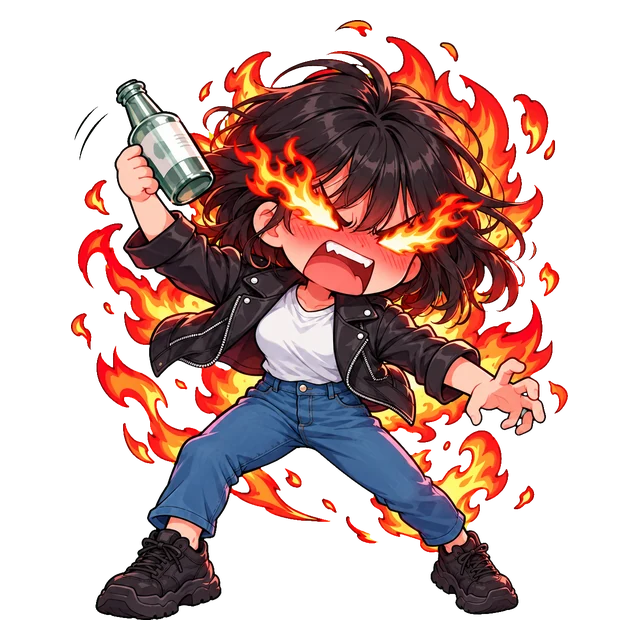
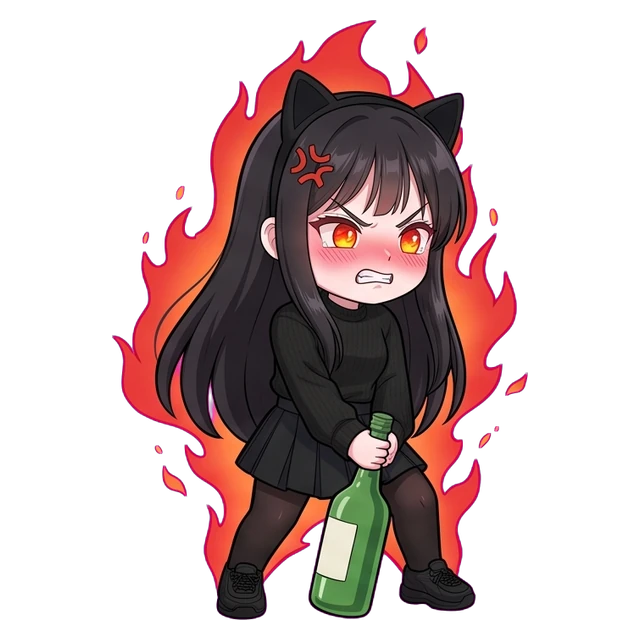
최은옥 술버릇 컨셉 새 그림: 평소 = 의자에 앉아 울면서 소주잔 던지기 · 분노 = 버럭 소주병 투척 (도감 HQ · 인게임 띠 · 소주잔/소주병 투사체 · 깨지는 연출) · ?v=20261014g
- 그림: h_eunok(_attack) 앉아 훌쩍 · h_eunok_rage(_attack) 서서 소주병 · dex/dexhq(+thumb, duo) · fx/w_cup 새 소주잔 · fx/w_sojubottle 새 소주병 (Gemini · 키 작게)
- 연출만: 분노 중 투사체 = 소주병 · 맞으면 유리 조각 (잔: 투명 · 병: 초록 와장창) · 시한폭탄 자리에 꽂힌 잔/병 그림 · 원샷(분노 시작) 때 큰 소주병 휙 · 평소 훌쩍 들썩 + 눈물
- 글: 소개 · 도감 한 줄 · 대사 · 카드 요약 (피해 수치는 그대로)
- ART_VER 3 · 얼굴 위치(DEX_FACE · FACE_BOX) 새 그림에 맞춤

Claude-Session: https://claude.ai/code/session_016zscpnQTe5fAmJRC7J2Wse

diff --git a/public/langbang/game.js b/public/langbang/game.js
@@ -640,6 +640,11 @@ function handleEvents(g, loud) {
         break;
       case 'splash':
         fx.blast(e.x, e.y, e.r, e.proj === 'heart' ? 'heart' : e.proj === 'bottle' ? 'fire' : e.proj === 'swear' ? 'electric' : 'gold');
+        if (e.proj === 'bottle') { // 최은옥: 깨지는 소주잔(투명 유리) · 분노 땐 초록 소주병 와장창 + 튀는 술
+          fx.burst(e.x, e.y - 4, e.rage ? 14 : 9, e.rage ? '#4fcf72' : '#e8f8ff', e.rage ? 230 : 170, 'shard', e.rage ? 6 : 4, 0.55, 420);
+          fx.burst(e.x, e.y - 4, e.rage ? 8 : 5, 'rgba(200,240,255,0.85)', 110, 'dot', 3, 0.5, 300);
+          if (Math.random() < (e.rage ? 0.4 : 0.15)) fx.text(e.x, e.y - 14, e.rage ? '와장창!!' : '쨍그랑', e.rage ? '#b6ffb0' : '#dff4ff', e.rage ? 15 : 12, 0.6);
+        }
         if (loud) A.sfx.explode();
         break;
       case 'bossHold': if (!busy) fx.text(e.x, e.y, '버틴다!', '#ffb36a', 13, 0.7); break;
@@ -1339,10 +1344,19 @@ function handleEvents(g, loud) {
         if (live) endRun(false);
         break;
       case 'rage':
-        fx.banner('최은옥 분노 모드!!', '"다 덤벼!!!"', '#c01010', 1.8, 'rage', 'h_eunok_rage');
+        fx.banner('최은옥 분노 모드!!', '"울 만큼 울었어!! 다 덤벼!!!"', '#c01010', 1.8, 'rage', 'h_eunok_rage');
         fx.addShake(8);
         fx.ring(e.x, e.y, 10, 160, 0.6, '#ff3b30', 8);
         for (let k = 0; k < 16; k++) fx.part('flame', e.x + (Math.random() - 0.5) * 40, e.y + 10, (Math.random() - 0.5) * 60, -80 - Math.random() * 80, 0.8, 14, null);
+        { // 울다가 버럭! 큰 소주병을 진상 쪽으로 휙 (그림 연출만 — 피해는 sim 이 정한다)
+          let tg = null;
+          for (const o of g.enemies || []) if (!o.dead && o.y > 0 && (!tg || o.y > tg.y)) tg = o;
+          if (tg) {
+            const tx = tg.x, ty = tg.y;
+            R.vfx('w_sojubottle', e.x, e.y - 34, { anim: 'fly', dur: 460, sz: 54, tx, ty, blend: 'source-over' });
+            setTimeout(() => { fx.burst(tx, ty - 4, 18, '#4fcf72', 260, 'shard', 7, 0.6, 420); fx.burst(tx, ty - 4, 10, 'rgba(200,240,255,0.85)', 140, 'dot', 3.4, 0.5, 300); fx.ring(tx, ty, 8, 90, 0.4, '#b6ffb0', 5); fx.text(tx, ty - 26, '와장창!!', '#b6ffb0', 18, 0.9); fx.addShake(6); }, 460);
+          }
+        }
         if (loud) A.sfx.rage();
         break;
       case 'sober': fx.text(e.x, e.y - 60, '술 깼다… 한 잔 더?', '#ffd6a8', 12, 1.3); break;
@@ -3360,7 +3374,7 @@ const sleep = (ms) => new Promise((r) => setTimeout(r, ms));
 const DEX_CATCH = {
   bangjang: '"공지! 오늘도 랑방은 내가 지킨다!"', staff: '"경고 한 번, 두 번… 세 번이면 아웃이에요."', gunman: '"건전하게, 정확하게."', gunnyeo: '"다친 사람 먼저! 다들 괜찮아요?"',
   myunghoon: '"#@!% … 아, 미안. 조용히 해 줄래?"', dohoon: '"앵콜! 앵콜! 마이크는 안 놔!"', ingyu: '"오 그거 근육 자극 좋다."', donghan: '"…이제 좀 해볼까?"', youngjun: '"들어간다. 따라오지 마."',
-  eunok: '"한 잔만… 딱 한 잔만 할게."', hanna: '"윙크 받을 준비 됐어?"', sunggu: '"요즘 것들은… 내가 보여 주마."', junseo: '"잠깐, 내 친구 소개해 줄게!"', hyungyeong: '"다이어트는 내일부터! 오늘은 박치기!"',
+  eunok: '"흐엉… 나 하나도 안 취했어… (휙)"', hanna: '"윙크 받을 준비 됐어?"', sunggu: '"요즘 것들은… 내가 보여 주마."', junseo: '"잠깐, 내 친구 소개해 줄게!"', hyungyeong: '"다이어트는 내일부터! 오늘은 박치기!"',
   ara: '"공주님 등장~ 아이고 허리야…"', hochan: '"랑방을 위하여!!"',
   soyoung: '"그러니까 내가 뭐랬어!"', jieun: '"…시간아 멈춰라."', sanghwa: '"좋은남자 박상화!"', jungmin: '"가만있어 봐, 붙여 줄게."',
   dragon: '"박나뇽, 내 말 좀 들어 봐~" (화르륵)', subin: '"음악 틀어 줘! 같이 춰요~"',
@@ -6093,7 +6107,7 @@ const DEX_FLAVOR = {
   ingyu: '3대 500 헬창. 진상이 뭘 던지든 "오 근육 자극 좋다"로 받아친다.',
   donghan: '모임 내내 소파에 누워 간만 보는 사람. 근데 "이제 좀 해볼까?" 하는 순간 한 줄이 사라진다. 커피 한 잔 원샷하면 눈이 번쩍 — 머리에서 김이 나고 하늘에서 캔커피가 쏟아진다.',
   youngjun: '크로스핏으로 단련한 몸에 검은 고양이 후드 — 어둠 속에서 진상들을 처리하는 전사. 뛰어든 동안엔 아무것도 안 통한다.',
-  eunok: '처음엔 얌전히 홀짝홀짝. 14초쯤 뒤엔… 소주병이 날아다니기 시작한다.',
+  eunok: '키는 작아도 술버릇은 크다. 의자에 앉아 훌쩍이며 소주잔을 휙휙 — "원샷!" 한 마디에 눈물 뚝, 소주병 투척 시작.',
   hanna: '랑방 공식 윙크 담당. 남자 진상은 윙크 한 방에 정신 못 차리고 날아간다.',
   sunggu: '"요즘 것들은…"이 입버릇인 최고참. 지팡이를 던지면 커다란 원을 그리며 한 무리를 두 번 훑고 손에 쏙 돌아온다.',
   dragon: '어느 날 찾아온 자기 닮은 용 박나뇽과 다니는 히든 멤버. 나영이 헛소리를 할 때마다 박나뇽이 "화르륵" — 진상들이 불붙은 채 뛰어다닌다.',
@@ -6161,10 +6175,10 @@ const DEX_FLAVOR = {
 };
 // 도감 카드 세로 영문 이름 · 얼굴 위치 (dexhq 전신 그림 기준: 가운데 x, y, 얼굴 폭 — 그림 폭 대비)
 const DEX_EN = { dragon: 'PARK NAYOUNG', subin: 'LIM SUBIN', baul: 'SONG BAUL', byunghwa: 'KANG BYUNGHWA', jeongseob: 'YOON JEONGSEOB', jiwon: 'YEO JIWON', wonsik: 'JUNG WONSIK', bangjang: 'BANGJANG', staff: 'STAFF', gunman: 'MR. CLEAN', gunnyeo: 'MS. CLEAN', myunghoon: 'SEO MYUNGHOON', dohoon: 'KIM DOHOON', ingyu: 'BAEK INGYU', donghan: 'MOON DONGHAN', youngjun: 'KIM YOUNGJUN', eunok: 'CHOI EUNOK', hanna: 'LEE HANNA', sunggu: 'KANG SUNGGU', junseo: 'YOON JUNSEO', hyungyeong: 'BAE HYUNGYEONG', ara: 'KO ARA', hochan: 'LEE HOCHAN', soyoung: 'JEONG SOYOUNG', jieun: 'OH JIEUN', sanghwa: 'PARK SANGHWA', jungmin: 'HONG JUNGMIN' };
-const DEX_FACE = { subin: [0.53, 0.115, 0.13], baul: [0.49, 0.085, 0.12], byunghwa: [0.42, 0.085, 0.11], jeongseob: [0.5, 0.1, 0.13], hochan: [0.49, 0.125, 0.17], bangjang: [0.45, 0.1, 0.15], staff: [0.47, 0.085, 0.13], gunnyeo: [0.47, 0.09, 0.13], eunok: [0.44, 0.078, 0.12], hanna: [0.47, 0.083, 0.13], sunggu: [0.49, 0.09, 0.14], gunman: [0.58, 0.085, 0.13], dohoon: [0.55, 0.09, 0.13], myunghoon: [0.56, 0.1, 0.15], youngjun: [0.49, 0.085, 0.13], donghan: [0.62, 0.11, 0.17], ingyu: [0.48, 0.1, 0.13], junseo: [0.55, 0.11, 0.14], ara: [0.37, 0.32, 0.12], hyungyeong: [0.55, 0.19, 0.2], jungmin: [0.44, 0.11, 0.12], soyoung: [0.47, 0.11, 0.13], jieun: [0.52, 0.12, 0.13], sanghwa: [0.45, 0.07, 0.12], jiwon: [0.48, 0.075, 0.12], wonsik: [0.47, 0.08, 0.12], baul: [0.49, 0.085, 0.12], junyoung: [0.5, 0.2, 0.3] }; // [가로 가운데, 세로 가운데, 얼굴 높이] (그림 대비)
+const DEX_FACE = { subin: [0.53, 0.115, 0.13], baul: [0.49, 0.085, 0.12], byunghwa: [0.42, 0.085, 0.11], jeongseob: [0.5, 0.1, 0.13], hochan: [0.49, 0.125, 0.17], bangjang: [0.45, 0.1, 0.15], staff: [0.47, 0.085, 0.13], gunnyeo: [0.47, 0.09, 0.13], eunok: [0.52, 0.19, 0.13], hanna: [0.47, 0.083, 0.13], sunggu: [0.49, 0.09, 0.14], gunman: [0.58, 0.085, 0.13], dohoon: [0.55, 0.09, 0.13], myunghoon: [0.56, 0.1, 0.15], youngjun: [0.49, 0.085, 0.13], donghan: [0.62, 0.11, 0.17], ingyu: [0.48, 0.1, 0.13], junseo: [0.55, 0.11, 0.14], ara: [0.37, 0.32, 0.12], hyungyeong: [0.55, 0.19, 0.2], jungmin: [0.44, 0.11, 0.12], soyoung: [0.47, 0.11, 0.13], jieun: [0.52, 0.12, 0.13], sanghwa: [0.45, 0.07, 0.12], jiwon: [0.48, 0.075, 0.12], wonsik: [0.47, 0.08, 0.12], baul: [0.49, 0.085, 0.12], junyoung: [0.5, 0.2, 0.3] }; // [가로 가운데, 세로 가운데, 얼굴 높이] (그림 대비)
 // 얼굴 맞춤 자르기: 얼굴 높이 = 칸 높이의 f · 얼굴 가운데 = (50%, cy) — 그림 비율과 상관없이 (자기 크기 기준 translate)
 // 동그란 얼굴용 얼굴 상자 (썸네일 기준 · 이마~턱 · 가운데 x, 가운데 y, 높이) — 그림을 재서 맞춘 값
-const FACE_BOX = { subin: [0.53, 0.12, 0.095], byunghwa: [0.42, 0.1, 0.075], hochan: [0.44, 0.115, 0.085], bangjang: [0.47, 0.1, 0.085], staff: [0.47, 0.115, 0.09], gunnyeo: [0.39, 0.135, 0.11], eunok: [0.47, 0.115, 0.1], hanna: [0.49, 0.11, 0.11], sunggu: [0.52, 0.165, 0.1], gunman: [0.55, 0.115, 0.09], dohoon: [0.57, 0.165, 0.095], myunghoon: [0.565, 0.145, 0.13], youngjun: [0.575, 0.18, 0.1], donghan: [0.63, 0.19, 0.12], ingyu: [0.45, 0.105, 0.095], junseo: [0.56, 0.115, 0.095], ara: [0.42, 0.32, 0.1], hyungyeong: [0.55, 0.24, 0.12], jungmin: [0.42, 0.155, 0.09], soyoung: [0.45, 0.145, 0.09], jieun: [0.55, 0.145, 0.11], sanghwa: [0.48, 0.11, 0.085], jiwon: [0.47, 0.095, 0.075], wonsik: [0.6, 0.095, 0.09], baul: [0.49, 0.09, 0.085], jeongseob: [0.52, 0.08, 0.075] };
+const FACE_BOX = { subin: [0.53, 0.12, 0.095], byunghwa: [0.42, 0.1, 0.075], hochan: [0.44, 0.115, 0.085], bangjang: [0.47, 0.1, 0.085], staff: [0.47, 0.115, 0.09], gunnyeo: [0.39, 0.135, 0.11], eunok: [0.52, 0.2, 0.11], hanna: [0.49, 0.11, 0.11], sunggu: [0.52, 0.165, 0.1], gunman: [0.55, 0.115, 0.09], dohoon: [0.57, 0.165, 0.095], myunghoon: [0.565, 0.145, 0.13], youngjun: [0.575, 0.18, 0.1], donghan: [0.63, 0.19, 0.12], ingyu: [0.45, 0.105, 0.095], junseo: [0.56, 0.115, 0.095], ara: [0.42, 0.32, 0.1], hyungyeong: [0.55, 0.24, 0.12], jungmin: [0.42, 0.155, 0.09], soyoung: [0.45, 0.145, 0.09], jieun: [0.55, 0.145, 0.11], sanghwa: [0.48, 0.11, 0.085], jiwon: [0.47, 0.095, 0.075], wonsik: [0.6, 0.095, 0.09], baul: [0.49, 0.09, 0.085], jeongseob: [0.52, 0.08, 0.075] };
 // 동그라미 안에 얼굴: 얼굴(이마~턱)이 지름의 70% · 가운데
 function faceCircStyle(id, f = 0.7, cy = 0.5) {
   const fb = (HWUI && HWUI.costumeFace(id)) || FACE_BOX[id] || DEX_FACE[id] || [0.48, 0.12, 0.1]; // (할로윈 의상 썸네일은 의상 얼굴 자리)

diff --git a/public/langbang/data.js b/public/langbang/data.js
@@ -199,7 +199,7 @@ export const TEMPO = { proj: 0.32, count: 0.6, hp: 1.5, hellHp: 1.5, hellCh: [1.
 export const BUS = { sec: [6.4, 6, 5.6, 5.2, 4.8], w: 110, w2: 200, speed: 560, kb: 90, dmg: 7, stun: 0.9 }; // (dmg 9 → 7: 헬 7-10 에서 혼자 피해 89% — 버스 한 대로 판을 끝내지 않게) // (템포에선 버스가 '랑방을 위하여' 팀 버프도 건다: LEGEND 가 혼자 캐리보다 팀을 키우게)
 // 투사체 그림 (fx/w_<이름>.webp · 오른쪽을 보는 그림 → 날아가는 방향으로 돌림) — 없으면 코드로 그린 모양
 export const PROJ_ART = { staff: 'card_y', eunok: 'cup', ingyu: 'dumbbell', soyoung: 'bubble', donghan: 'coffee', sunggu: 'cane', gunnyeo: 'heart', junyoung: 'chip', ara: 'hammer' }; // (대개편: 건전남 권총 · 박상화 장미 · 정원식 주먹 · 여지원 점멸 손 · 오지은 · 서명훈 · 홍정민은 kitfx.js 코드 그림)
-export const PROJ_ART_NAMES = ['bottle', 'cup', 'coin', 'dumbbell', 'bubble', 'card_y', 'card_r', 'bb', 'coffee', 'cane', 'mosaic', 'heart', 'chip', 'hammer', 'claw', 'clock', 'swear'];
+export const PROJ_ART_NAMES = ['bottle', 'cup', 'sojubottle', 'coin', 'dumbbell', 'bubble', 'card_y', 'card_r', 'bb', 'coffee', 'cane', 'mosaic', 'heart', 'chip', 'hammer', 'claw', 'clock', 'swear'];
 // 무기: 멤버마다 컨셉 물건 하나 (총 없음) · kind = 방식 · mag = 한 번에 몇 발 (연발·속사) · gap = 탄창 안 간격 (공격 간격 비율)
 //   장전 시간 = 탄창 × 간격 − (탄창−1) × gap 간격 → 평균 DPS 는 그대로, 리듬만 "몇 발 → 장전"
 //   진화: Lv3 탄창 +1 · Lv5 관통 +1 (연발·속사) 또는 범위 +25% · 진화 카드 = 큰 투사체
@@ -936,9 +936,10 @@ const ART_READY = new Set(['h_jungmin', 'h_junyoung', 'h_soyoung', 'h_jieun', 'h
 //  바뀐 파일만 적는다 (전부 붙이면 배포마다 모두 다시 받아서 전송량이 폭증) · 다시 바꾸면 숫자를 올린다
 export const ART_VER = {
   h_subin: 2, h_subin_attack: 2, 'dex/subin': 2, 'dexhq/subin': 2, 'dexhq/thumb/subin': 2,
-  h_donghan_attack: 2, h_eunok_attack: 2, h_dragon_attack: 2, e_boss_bestman_attack: 2, e_boss_bestman_skill: 2, e_boss_bestman_rage: 2,
+  h_donghan_attack: 2, h_eunok_attack: 3, h_dragon_attack: 2, e_boss_bestman_attack: 2, e_boss_bestman_skill: 2, e_boss_bestman_rage: 2,
   h_donghan_cafe: 2, h_donghan_cafe_tf: 2, h_donghan_cafe_attack: 2, 'dex/donghan_cafe': 2, 'dexhq/donghan_cafe': 2, 'dexhq/thumb/donghan_cafe': 2, // 문동한 카페인 풀충전 새로 그림 (Gemini)
   'fx/w_card_r': 2, 'fx/w_card_y': 2, // 운영진 레드·옐로카드 광택 카드로 새로 그림 (Gemini)
+  h_eunok: 3, h_eunok_rage: 3, h_eunok_rage_attack: 3, 'dex/eunok': 3, 'dex/eunok_rage': 3, 'dexhq/eunok': 3, 'dexhq/eunok_rage': 3, 'dexhq/eunok_duo': 3, 'dexhq/thumb/eunok': 3, 'dexhq/thumb/eunok_rage': 3, 'dexhq/thumb/eunok_duo': 3, 'fx/w_cup': 3, // 최은옥 술버릇 컨셉으로 새로 그림 (울면서 소주잔 · 분노 소주병 · Gemini)
   'season/halloween_key': 2, // (season.js 의 keyart 주소에도 ?v=2 를 직접 붙였다 — 허브 카드 · 로비 배경)
 };
 export const artV = (u) => { const m = typeof u === 'string' && /^\/img\/lb\/([^?]+)\.webp$/.exec(u); return m && ART_VER[m[1]] ? `${u}?v=${ART_VER[m[1]]}` : u; };
@@ -1058,7 +1059,7 @@ export const HEROES = {
     soberSec: [14, 14, 13, 13, 11], rageSec: [8, 9, 10, 11, 12],
     rageDmg: 1.4, rageInterval: 0.45, fire: { sec: 2.2, r: 50, dps: 0.6, kind: 'booze', slow: 0.3 }, arcH: 40, fuse: 0.5, // 분노 중 술 웅덩이 (1발 피해 × 0.6 / 초 · 비틀비틀 30% 느리게 — 불은 박나영 몫) · 낮고 빠른 포물선 · 떨어진 병은 0.5초 뒤 펑 (시한폭탄)
     attack: '소주병 시한폭탄 — 낮고 빠르게 휙휙 두 병, 바닥에 꽂혀 지글지글 0.5초 뒤 펑! (범위) · 분노 중엔 깨진 자리에 술 웅덩이 (밟은 진상 비틀비틀 느려짐)',
-    desc: '홀짝홀짝… 14초쯤 지나면 취해서 "분노 모드"가 된다.',
+    desc: '술만 들어가면 훌쩍훌쩍… 의자에 앉아 울면서 소주잔을 던진다. 원샷 한 번이면 눈물이 분노로 바뀌어 소주병이 날아온다!',
     perks: { 3: '분노 중 술 웅덩이가 더 넓고 오래', 5: '더 빨리 취하고 더 오래 분노' },
     skill: { id: 'oneshot', name: '원샷', cd: 18, desc: '바로 분노 모드! (분노 중이면 +5초)' },
   },

diff --git a/public/langbang/index.html b/public/langbang/index.html
@@ -28,14 +28,14 @@
   <link rel="stylesheet" href="https://cdn.jsdelivr.net/gh/orioncactus/pretendard@v1.3.9/dist/web/variable/pretendardvariable-dynamic-subset.min.css">
   <style>#bootld{position:fixed;inset:0;z-index:90;background:#0b0a16;display:grid;place-items:end center;transition:opacity .35s}#bootld .bl-bg{position:absolute;inset:0;width:100%;height:100%;object-fit:cover;opacity:.55}#bootld.out{opacity:0;pointer-events:none}</style>
   <link rel="preload" as="image" href="/img/lb/title_poster.jpg?v=3" fetchpriority="high">
-  <link rel="stylesheet" href="/langbang/style.css?v=20261014f">
-  <link rel="stylesheet" href="/langbang/friends.css?v=20261014f">
-  <link rel="stylesheet" href="/langbang/tower.css?v=20261014f">
-  <link rel="stylesheet" href="/langbang/raid2.css?v=20261014f">
-  <link rel="stylesheet" href="/langbang/bonkae.css?v=20261014f">
-  <link rel="stylesheet" href="/langbang/transit.css?v=20261014f">
-  <link rel="stylesheet" href="/langbang/tutorial.css?v=20261014f">
-  <link rel="stylesheet" href="/langbang/hw.css?v=20261014f">
+  <link rel="stylesheet" href="/langbang/style.css?v=20261014g">
+  <link rel="stylesheet" href="/langbang/friends.css?v=20261014g">
+  <link rel="stylesheet" href="/langbang/tower.css?v=20261014g">
+  <link rel="stylesheet" href="/langbang/raid2.css?v=20261014g">
+  <link rel="stylesheet" href="/langbang/bonkae.css?v=20261014g">
+  <link rel="stylesheet" href="/langbang/transit.css?v=20261014g">
+  <link rel="stylesheet" href="/langbang/tutorial.css?v=20261014g">
+  <link rel="stylesheet" href="/langbang/hw.css?v=20261014g">
 </head>
 <body>
   <div id="stage">
@@ -102,7 +102,7 @@
     <div id="toast" hidden></div>
   </div>
   <noscript>자바스크립트를 켜야 게임을 할 수 있어요.</noscript>
-  <script type="importmap">{"imports": {"/langbang/game.js": "/langbang/game.js?v=20261014f", "/langbang/season-fx.js": "/langbang/season-fx.js?v=20261014f", "/langbang/season.js": "/langbang/season.js?v=20261014f", "/langbang/cardtext.js": "/langbang/cardtext.js?v=20261014f", "/langbang/data.js": "/langbang/data.js?v=20261014f", "/langbang/sim.js": "/langbang/sim.js?v=20261014f", "/langbang/render.js": "/langbang/render.js?v=20261014f", "/langbang/live.js": "/langbang/live.js?v=20261014f", "/langbang/api.js": "/langbang/api.js?v=20261014f", "/langbang/audio.js": "/langbang/audio.js?v=20261014f", "/langbang/share.js": "/langbang/share.js?v=20261014f", "/langbang/flavor.js": "/langbang/flavor.js?v=20261014f", "/langbang/friends.js": "/langbang/friends.js?v=20261014f", "/langbang/tower.js": "/langbang/tower.js?v=20261014f", "/langbang/tower-ui.js": "/langbang/tower-ui.js?v=20261014f", "/langbang/transit.js": "/langbang/transit.js?v=20261014f", "/langbang/hw-event.js": "/langbang/hw-event.js?v=20261014f", "/langbang/hw-sim.js": "/langbang/hw-sim.js?v=20261014f", "/langbang/hw-ui.js": "/langbang/hw-ui.js?v=20261014f", "/langbang/hw-fx.js": "/langbang/hw-fx.js?v=20261014f"}}</script>
-  <script type="module" src="/langbang/game.js?v=20261014f"></script>
+  <script type="importmap">{"imports": {"/langbang/game.js": "/langbang/game.js?v=20261014g", "/langbang/season-fx.js": "/langbang/season-fx.js?v=20261014g", "/langbang/season.js": "/langbang/season.js?v=20261014g", "/langbang/cardtext.js": "/langbang/cardtext.js?v=20261014g", "/langbang/data.js": "/langbang/data.js?v=20261014g", "/langbang/sim.js": "/langbang/sim.js?v=20261014g", "/langbang/render.js": "/langbang/render.js?v=20261014g", "/langbang/live.js": "/langbang/live.js?v=20261014g", "/langbang/api.js": "/langbang/api.js?v=20261014g", "/langbang/audio.js": "/langbang/audio.js?v=20261014g", "/langbang/share.js": "/langbang/share.js?v=20261014g", "/langbang/flavor.js": "/langbang/flavor.js?v=20261014g", "/langbang/friends.js": "/langbang/friends.js?v=20261014g", "/langbang/tower.js": "/langbang/tower.js?v=20261014g", "/langbang/tower-ui.js": "/langbang/tower-ui.js?v=20261014g", "/langbang/transit.js": "/langbang/transit.js?v=20261014g", "/langbang/hw-event.js": "/langbang/hw-event.js?v=20261014g", "/langbang/hw-sim.js": "/langbang/hw-sim.js?v=20261014g", "/langbang/hw-ui.js": "/langbang/hw-ui.js?v=20261014g", "/langbang/hw-fx.js": "/langbang/hw-fx.js?v=20261014g"}}</script>
+  <script type="module" src="/langbang/game.js?v=20261014g"></script>
 </body>
 </html>

diff --git a/public/langbang/cardtext.js b/public/langbang/cardtext.js
@@ -16,7 +16,7 @@ export const SKILL_PLAIN = {
   ingyu: { sk: '오토바이로 돌며 진상 밖으로 튕김', atk: '덤벨 굴려 한 줄을 치고 밀침', good: '앞까지 몰려온 진상 밀어낼 때', gl: [['할리', '오토바이 — 달리며 진상을 튕겨 냄'], ['오토바이 덤벨', '덤벨 몇 번 굴리면 오토바이 돌진'], ['오토바이', '덤벨 몇 번 굴리면 나오는 돌진'], ['덤벨', '바닥에 굴려 한 줄을 치는 기본 공격']] },
   donghan: { sk: '진상 몰린 곳마다 하늘에서 연달아 쾅', atk: '과자 던지다 게이지 차면 한 줄 빔', good: '한 줄로 길게 오는 진상', gl: [['간보기 게이지', '과자 맞힐 때마다 참 → 가득 차면 빔'], ['간보기', '과자 맞힐 때마다 차는 빔 게이지'], ['빔', '한 줄을 통째로 쓸어버리는 빛줄기'], ['포격', '스킬 — 몰린 곳마다 하늘에서 떨어지는 한 방']] },
   youngjun: { sk: '최대 3명을 번개처럼 연속 베기', atk: '진상 사이를 뛰어다니며 베기', good: '몰려 있는 무리', gl: [['블랙 러시', '스킬 — 여러 명을 번개처럼 연속 베기'], ['돌격', '뛰어들어 베는 시간 (끝나면 쉼)'], ['크로스핏', '돌격 뒤 숨 고르는 쉬는 시간']] },
-  eunok: { sk: '바로 분노 모드 (센 상태)', atk: '떨어진 곳이 펑 터지는 소주병', good: '떼거리 판', gl: [['분노', '취하면 세지는 모드 — 술 웅덩이까지'], ['술 웅덩이', '밟으면 느려지는 술 자국'], ['원샷', '스킬 — 바로 분노 모드']] },
+  eunok: { sk: '바로 분노 모드 (센 상태)', atk: '울며 소주잔 · 분노 땐 소주병 펑', good: '떼거리 판', gl: [['분노', '취하면 세지는 모드 — 술 웅덩이까지'], ['술 웅덩이', '밟으면 느려지는 술 자국'], ['원샷', '스킬 — 바로 분노 모드']] },
   hanna: { sk: '남자는 날리고 여자는 홀려 멈춤', atk: '한 명에게 쏠수록 세지는 레이저', good: '보스 · 체력 많은 진상', gl: [['윙크 폭탄', '스킬 — 남자는 날리고 여자는 홀림'], ['레이저', '한 명에게 쏠수록 세지는 기본 공격'], ['홀림', '잠깐 넋 놓고 멈춤']] },
   sunggu: { sk: '진상을 빨아 모아 마지막에 쾅', atk: '돌아오는 지팡이가 두 번 훑음', good: '떼거리 · 줄지어 오는 진상', gl: [['블랙홀', '스킬 — 진상을 빨아 모아 마지막에 쾅'], ['지팡이', '던지면 크게 돌아오는 부메랑']] },
   junseo: { sk: '여사친 하나 더 바로 내보냄', atk: '여사친이 핀볼처럼 튕기며 밀침', good: '떼거리 판 · 밀어내기', gl: [['소개팅', '스킬 — 여사친 하나 더 바로 내보냄'], ['여사친', '진상 사이를 튕겨 다니는 공 (기본 공격)'], ['튕김', '여사친이 옮겨 가며 맞히는 수']] },

diff --git a/public/langbang/render.js b/public/langbang/render.js
@@ -2247,6 +2247,7 @@ export class Renderer {
       if (h.kdT > 0) { const k = Math.min(1, (h.kdSec - h.kdT) / 0.25, h.kdT / 0.35); rot = (hx < 180 ? -1 : 1) * 1.3 * k; sy = 1 - 0.1 * k; bob += 14 * k; } // 쓰러짐: 옆으로 픽 누움 (일어날 때 다시 세움)
       if (h.joinT < 0.4) { const p = h.joinT / 0.4; const e = 1 + Math.sin(p * Math.PI) * 0.3; if (g.joinMode) { bob += (1 - p) * 70; sx *= 0.6 + 0.4 * p; sy *= 0.6 + 0.4 * p * e; } else { sx *= e * p; sy *= e * p; } } // 합류: 아래에서 미끄러져 올라온다
       if (h.id === 'sunggu' || (h.id === 'ara' && h.alt)) rot += Math.sin(t * 1.5) * 0.04; // 할아버지 · 늙은 공주 휘청
+      if (h.id === 'eunok' && !up) { const sn = Math.max(0, Math.sin(t * 2.6 + h.slot)); sy *= 1 - 0.03 * sn * sn * sn; bob += 0.8 * sn * sn * sn; rot += Math.sin(t * 1.1) * 0.025; if (Math.random() < 0.012 && this.fx) this.fx.part('dot', hx + 6, feet - box * 0.62, 10 + Math.random() * 20, 20, 0.7, 2.6, '#bfe8ff', { grav: 260 }); } // 최은옥 평소: 의자에 앉아 훌쩍훌쩍 (어깨 들썩 · 눈물 똑)
       sy *= 1 + Math.sin(t * 2.2 + h.slot * 1.7) * 0.012; // 숨쉬기
       if (h.reloadT > 0 && h.reloadMax > 0.25) { const q = 1 - h.reloadT / h.reloadMax; rot += Math.sin(q * Math.PI) * -0.13; bob += Math.sin(q * Math.PI) * 1.5; } // 장전: 살짝 기울여 챙기기
       if (h.id === 'hyungyeong' && alt) bob += Math.sin(t * 22) * 1.6; // 날씬 복서 스텝
@@ -2971,7 +2972,7 @@ export class Renderer {
         if (Math.random() < 0.25) this.fx.part('dot', p.x, p.y, (Math.random() - 0.5) * 40, 20, 0.4, 3, '#ffc0dc');
         continue;
       }
-      const an = p.hero && p.type !== 'moto' && p.type !== 'gf' && (p.hero.id === 'ara' && p.type === 'cane' ? 'cane' : PROJ_ART[p.hero.id]); // 할머니 고아라는 지팡이를 던진다 (망치 그림 X)
+      const an = p.hero && p.type !== 'moto' && p.type !== 'gf' && (p.hero.id === 'ara' && p.type === 'cane' ? 'cane' : (p.hero.id === 'eunok' && p.rage ? 'sojubottle' : PROJ_ART[p.hero.id])); // 최은옥: 평소엔 소주잔 · 분노 땐 소주병 · 할머니 고아라는 지팡이를 던진다 (망치 그림 X)
       if (an === 'card_y') { // 운영진 경고장: 그림(민무늬 노란 사각형) 대신 코드로 그린 심판 카드 · 날아가며 팔랑팔랑
         const sc = this.projSprites[p.big ? 'staffCardRed' : 'staffCard'];
         if (sc) { const ang = Math.atan2(p.vy || 0, p.vx || 1) + Math.PI / 2 + Math.sin(this.fx.time * 14 + (p.uid || pi)) * 0.35; this.tf(p.x, p.y, ang, 1, 1); cx.drawImage(sc.c, -sc.w / 2, -sc.h / 2, sc.w, sc.h); continue; }

diff --git a/public/langbang/kitfx.js b/public/langbang/kitfx.js
@@ -234,8 +234,10 @@ export class KitFx {
         cx.strokeStyle = '#fff'; cx.lineWidth = 3; cx.beginPath(); cx.arc(0, 0, z.r, 0, TAU); cx.stroke();
         cx.globalCompositeOperation = 'lighter'; cx.fillStyle = 'rgba(255,255,255,0.25)'; cx.beginPath(); cx.arc(0, 0, z.r * (0.3 + 0.2 * Math.sin(now * 12)), 0, TAU); cx.fill(); cx.globalCompositeOperation = 'source-over';
       } else if (z.kind === 'fuse') { // 최은옥 시한폭탄: 바닥에 꽂힌 병 · 지글지글 심지 · 남은 시간 고리
-        R.tf(z.x, z.y, 0.3, 1, 1); cx.globalAlpha = 1;
-        cx.fillStyle = z.p && z.p.fire ? '#ff6a3a' : '#5fd27a'; cx.fillRect(-4, -16, 8, 18); cx.fillRect(-2, -22, 4, 6);
+        const fz = z.p && z.p.fire, fim = R.images[fz ? 'w_sojubottle' : 'w_cup'], wob = Math.sin(now * 30) * 0.08; // 꽂힌 소주잔 (분노 땐 소주병) · 부들부들
+        R.tf(z.x, z.y, (fz ? 0.5 : 0.15) + wob, 1, 1); cx.globalAlpha = 1;
+        if (imgOk(fim)) { const sz = fz ? 30 : 20; cx.drawImage(fim, -sz / 2, -sz * 0.85, sz, sz); }
+        else { cx.fillStyle = fz ? '#ff6a3a' : '#5fd27a'; cx.fillRect(-4, -16, 8, 18); cx.fillRect(-2, -22, 4, 6); }
         R.tf(z.x, z.y + 4, 0, 1, 0.45); cx.strokeStyle = '#ffd23f'; cx.lineWidth = 3; cx.beginPath(); cx.arc(0, 0, 18, -Math.PI / 2, -Math.PI / 2 + TAU * c01(z.t / z.max)); cx.stroke();
         if (Math.random() < 0.6) this.fx.part('spark', z.x + 6, z.y - 22, (Math.random() - 0.5) * 60, -40 - Math.random() * 40, 0.25, 3, '#ffd23f');
       } else if (z.kind === 'dive') { // 박나영 급강하 예고: 커지는 그림자 · 빨라지는 경고 고리 · 도는 점선 · 모여드는 화살표

diff --git a/public/langbang/flavor.js b/public/langbang/flavor.js
@@ -11,7 +11,7 @@ export const FLAVOR = {
   ingyu: '3대 500을 자랑하는 헬창. 할리 시동 소리가 들리면 진상들이 알아서 길을 비킨다.',
   donghan: '늘 "좀 이따가 할게"를 달고 사는 간보기 장인. 간보기가 끝나면 한 줄이 통째로 사라지고, 커피 한 잔에 카페인 풀충전되면 캔커피 폭격을 퍼붓는다.',
   youngjun: '크로스핏으로 단련한 몸, 어둠이 그의 무대. 파티장에 검은 고양이 후드가 나타나면 진상들은 영문도 모른 채 하나씩 사라진다.',
-  eunok: '홀짝홀짝 한 잔이 두 잔 되고, 두 잔이 폭탄주가 되는 순간 분노 모드가 켜진다.',
+  eunok: '한 잔 마시면 울고, 두 잔 마시면 던지고, 원샷 하면 화낸다. 소문난 술버릇, 오늘은 진상 쪽으로 발사!',
   hanna: '윙크 한 번에 레이저가 나간다. 맞은 남자는 이유도 모른 채 뒤로 날아간다.',
   sunggu: '"요즘 것들은…"으로 시작하는 말은 길지만, 지팡이는 한 줄을 끝까지 꿰뚫는다.',
   junseo: '주변에 여사친이 들끓는다. 하지만 그게 여사친인지, 자기 예비 여친인지는 아무도 알 수 없다.',

diff --git a/public/langbang/sim.js b/public/langbang/sim.js
@@ -1301,7 +1301,7 @@ function landLob(g, p) {
   }
   const inc = !BAL.aoeMain.includes(h.id);
   const R0 = p.splash * (inc ? BAL.incSplashR : 1);
-  ev(g, 'splash', { x: p.tx, y: p.ty, r: R0, proj: p.type });
+  ev(g, 'splash', { x: p.tx, y: p.ty, r: R0, proj: p.type, rage: !!p.fire });
   let main = null, md = 1e9; // 맞은 한 명은 제 피해 · 곁다리는 (범위 멤버가 아니면) 40%
   forEnemiesNear(g, p.tx, p.ty, R0, (e) => { const dd = Math.hypot(e.x - p.tx, e.y - p.ty); if (dd < md) { md = dd; main = e; } return true; });
   forEnemiesNear(g, p.tx, p.ty, R0, (e) => {
